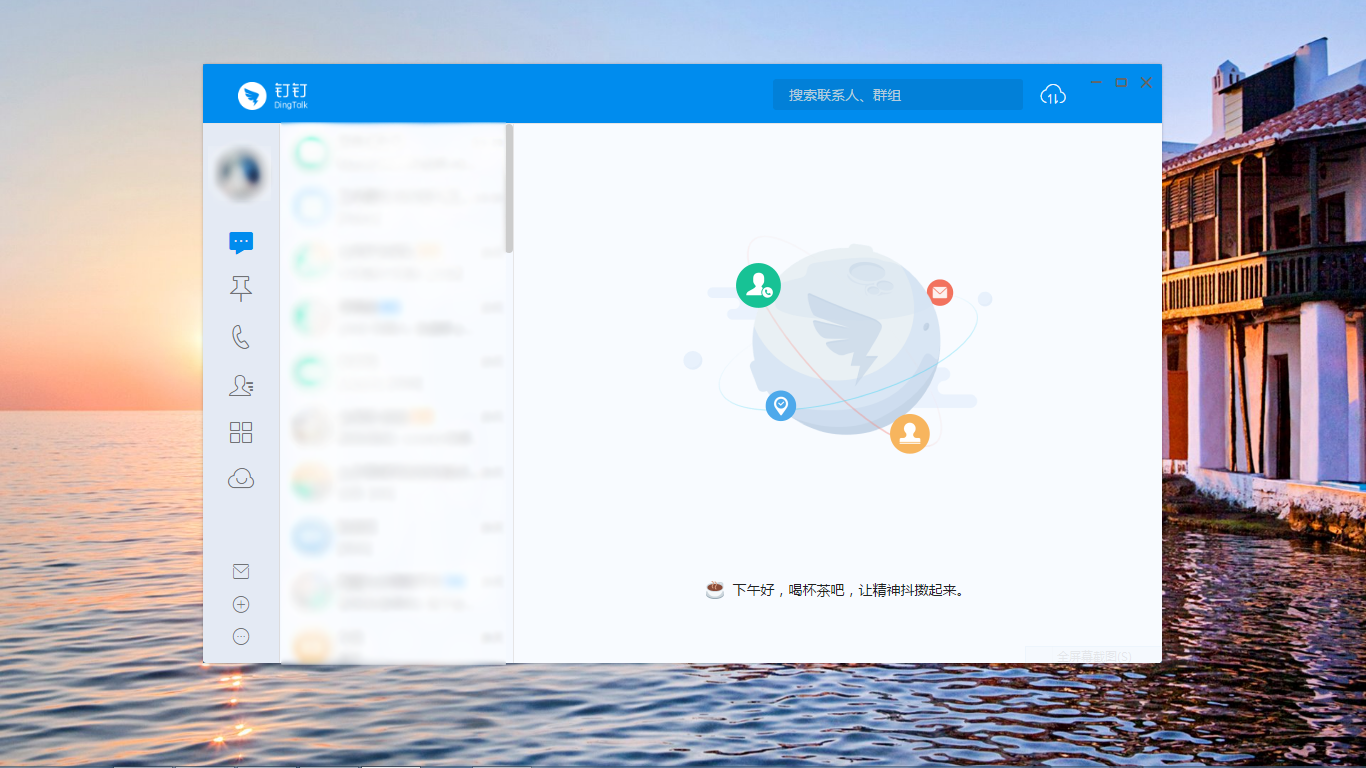
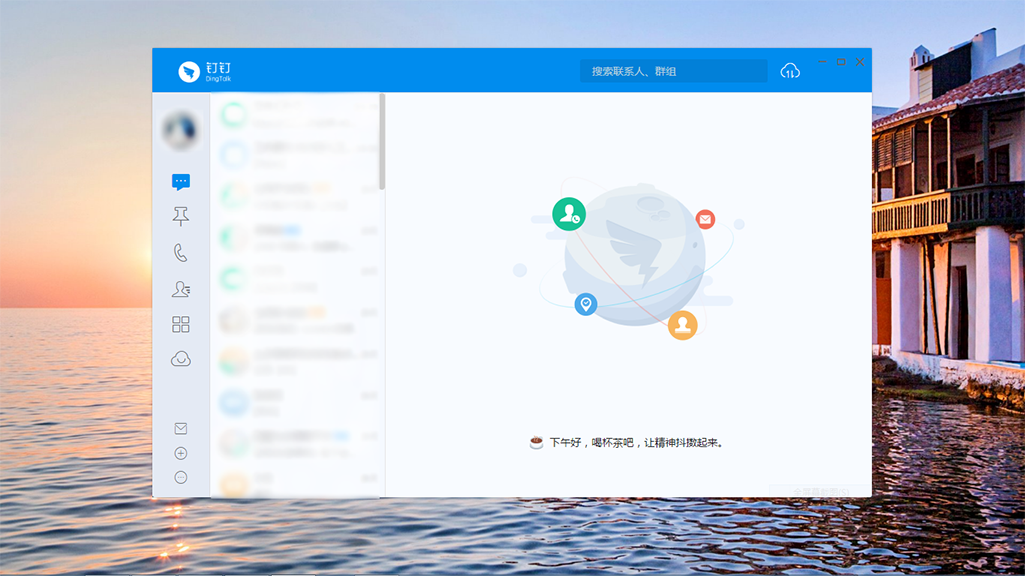
支持邮箱功能

diff --git a/app/dingtalk.js b/app/dingtalk.js
@@ -48,11 +48,15 @@ exports = module.exports = class DingTalk {
     this.onSetBadgeCount()
     // 点击消息通知后打开窗口
     this.onShow()
+    // 点击邮箱之后打开新窗口
+    this.onOpneEmail()
   }
 
   // 应用准备完毕时执行
   onReady () {
     this.app.on('ready', () => {
+      // 移除菜单项
+      Menu.setApplicationMenu(null)
       // 同时只能运行一个人实例
       const shouldQuit = this.app.makeSingleInstance(() => {
         if (this.$window) {
@@ -154,6 +158,40 @@ exports = module.exports = class DingTalk {
         this.$window.show()
         this.$window.focus()
       }
+    })
+  }
+
+  // 渲染进程通知打开邮件新窗体
+  onOpneEmail () {
+    let $emailWindow = null
+    // 渲染进程消息通知点击后打开窗体
+    this.ipcMain.on('open-email', (e, url) => {
+      if ($emailWindow) {
+        $emailWindow.show()
+        $emailWindow.focus()
+        return
+      }
+      $emailWindow = new BrowserWindow({
+        title: '钉邮',
+        width: 980,
+        height: 640,
+        minWidth: 720,
+        minHeight: 450,
+        resizable: true,
+        menu: false,
+        icon: path.join(__dirname, '../icon/32x32.png')
+      })
+      // 加载URL地址
+      $emailWindow.loadURL(url)
+      // 右键上下文菜单
+      $emailWindow.webContents.on('context-menu', (e, params) => {
+        e.preventDefault()
+        this.buildContextMenu(params, $emailWindow)
+      })
+      // 窗口关闭后手动让$window为null
+      $emailWindow.on('closed', () => {
+        $emailWindow = null
+      })
     })
   }
 
@@ -276,6 +314,13 @@ exports = module.exports = class DingTalk {
     if (!this.$window || !this.$window.webContents) {
       return
     }
+    this.$window.webContents.on('context-menu', (e, params) => {
+      e.preventDefault()
+      this.buildContextMenu(params, this.$window)
+    })
+  }
+
+  buildContextMenu (params, $win) {
     // 菜单执行命令
     const menuCmd = {
       copy: {
@@ -296,59 +341,56 @@ exports = module.exports = class DingTalk {
       }
     }
 
-    this.$window.webContents.on('context-menu', (e, params) => {
-      e.preventDefault()
-      const { selectionText, isEditable, editFlags } = params
+    const { selectionText, isEditable, editFlags } = params
 
-      // 生成菜单模板
-      const template = Object.keys(menuCmd)
-        .map(cmd => {
-          const { id, label } = menuCmd[cmd]
-          let enabled = false
-          let visible = false
-          const { canCopy, canCut, canPaste, canSelectAll } = editFlags
-          switch (cmd) {
-            case 'copy':
-              // 有文字选中就显示
-              visible = !!selectionText
-              enabled = canCopy
-              break
-            case 'cut':
-              // 可以编辑就显示项目
-              visible = !!isEditable
-              // 有文字选中才可用
-              enabled = visible && !!selectionText && canCut
-              break
-            case 'paste':
-              // 可以编辑就显示项目
-              visible = !!isEditable
-              enabled = visible && canPaste
-              break
-            case 'selectall':
-              // 可以编辑就显示项目
-              visible = !!isEditable
-              enabled = visible && canSelectAll
-              break
-            default:
-              break
-          }
-          return {
-            id,
-            label,
-            role: cmd,
-            enabled,
-            visible
-          }
-        })
-        .filter(item => item.visible)
-        .sort((a, b) => a.id > b.id)
+    // 生成菜单模板
+    const template = Object.keys(menuCmd)
+      .map(cmd => {
+        const { id, label } = menuCmd[cmd]
+        let enabled = false
+        let visible = false
+        const { canCopy, canCut, canPaste, canSelectAll } = editFlags
+        switch (cmd) {
+          case 'copy':
+            // 有文字选中就显示
+            visible = !!selectionText
+            enabled = canCopy
+            break
+          case 'cut':
+            // 可以编辑就显示项目
+            visible = !!isEditable
+            // 有文字选中才可用
+            enabled = visible && !!selectionText && canCut
+            break
+          case 'paste':
+            // 可以编辑就显示项目
+            visible = !!isEditable
+            enabled = visible && canPaste
+            break
+          case 'selectall':
+            // 可以编辑就显示项目
+            visible = !!isEditable
+            enabled = visible && canSelectAll
+            break
+          default:
+            break
+        }
+        return {
+          id,
+          label,
+          role: cmd,
+          enabled,
+          visible
+        }
+      })
+      .filter(item => item.visible)
+      .sort((a, b) => a.id > b.id)
 
-      // 用模板生成菜单
-      if (template.length) {
-        const menu = Menu.buildFromTemplate(template)
-        menu.popup(this.$window)
-      }
-    })
+    // 用模板生成菜单
+    if (template.length) {
+      const menu = Menu.buildFromTemplate(template)
+      menu.popup($win)
+    }
   }
 
   // 应用更新检查

diff --git a/app/window/js/js.js b/app/window/js/js.js
@@ -43,6 +43,11 @@ class Injector {
      * 发送未读消息条数到主进程
      */
     this.setBadgeCount()
+
+    /**
+     * 打开邮箱界面
+     */
+    this.openEmail()
   }
 
   // 插入窗口操作按钮
@@ -110,6 +115,28 @@ class Injector {
         ipcRenderer.send('set-badge', count)
       }
     }, 2000)
+  }
+
+  openEmail () {
+    document.addEventListener('click', e => {
+      const $email = document.querySelector('#menu-pannel > ul.extra-options.ng-scope > div > org-email > li')
+      if (!$email) {
+        return
+      }
+      if ($email.contains(e.target)) {
+        // 停止事件冒泡和默认事件
+        e.stopPropagation()
+        e.preventDefault()
+        const reg = /^\d+_mailUrl/
+        const storage = localStorage
+        for (let key in storage) {
+          if (reg.test(key)) {
+            ipcRenderer.send('open-email', storage[key])
+            break
+          }
+        }
+      }
+    })
   }
 }
 

diff --git a/README.md b/README.md
@@ -14,6 +14,7 @@
 1. 二维码登录页面![1.png](./screenshot/1.png)
 2. 账号密码登录页面![2.png](./screenshot/2.png)
 3. 登录后页面展示![3.png](./screenshot/3.png)
+4. 邮箱打开效果![4.png](./screenshot/4.png)
 
 ## 功能说明
 1. 本版本是基于网页版钉钉和electron制作的
@@ -22,9 +23,51 @@
     * 除了少数的功能未能够完全实现，其余的使用体验和PC版钉钉基本一致
 
 ## 更新说明
-1. 图标系列制作与通知栏图标修改
-2. 弹出消息提示在Linux上优化
-3. 通知栏图标支持单击弹出窗口
+1. 支持邮箱打开
 
 ## TODO
 1. 支持网络断开时显示错误页
+
+
+## 左边导航HTML
+```html
+<ul class="main-menus">
+                <li class="menu-item menu-message selected" ng-click="home.goState('authorized.im')" ng-class="{selected:home.$state.includes('authorized.im')}" ng-dblclick="home.scrollToUnReadConv()">
+                    <div class="menu-item-content">
+                        <i class="iconfont menu-icon tipper-attached" htitle="消息" htitle-direction="right"></i>
+                        <!-- ngIf: home.$my.uid --><all-conv-unread-count ng-if="home.$my.uid" class="ng-scope ng-isolate-scope"><!-- ngIf: $ctrl.unreadMsgCount > 0 --></all-conv-unread-count><!-- end ngIf: home.$my.uid -->
+                    </div>
+                </li>
+                <li class="menu-item menu-ding" ng-click="home.goState('authorized.ding')" ng-class="{selected:home.$state.includes('authorized.ding')}">
+                    <div class="menu-item-content">
+                        <i class="iconfont menu-icon tipper-attached" htitle="DING" htitle-direction="right"></i>
+
+                        <!-- ngIf: home.newDingList.newCount + home.newCommentList.unreadCount !== 0 -->
+                    </div>
+                </li>
+                <li class="menu-item menu-company-call-center" ng-click="home.onTelClick()" ng-class="{selected:home.$state.includes('authorized.companyCallCenter')}">
+                    <div class="menu-item-content">
+                    <i class="iconfont menu-icon tipper-attached" htitle="电话" htitle-direction="right"></i>
+                        <!-- ngIf: home.$my.uid --><unread-call ng-if="home.$my.uid" class="ng-scope ng-isolate-scope"><!-- ngIf: $ctrl.unreadPointNum > 0 --><span class="unread-num ng-scope" ng-if="$ctrl.unreadPointNum > 0"><em class="ng-binding">1</em></span><!-- end ngIf: $ctrl.unreadPointNum > 0 -->
+</unread-call><!-- end ngIf: home.$my.uid -->
+                    </div>
+                </li>
+                <li class="menu-item menu-contact" ng-click="home.onContactClick()" ng-class="{selected:home.$state.includes('authorized.contact')}">
+                    <div class="menu-item-content">
+                        <i class="iconfont menu-icon tipper-attached" htitle="联系人" htitle-direction="right"></i>
+                    </div>
+                </li>
+                <!-- ngIf: home.isShowMicroApp && !home.ua.isDesktop || home.isShowMicroApp && home.ua.isDesktop && !home.isShowWorkIndependent --><li class="menu-item menu-micro-app ng-scope" ng-if="home.isShowMicroApp &amp;&amp; !home.ua.isDesktop || home.isShowMicroApp &amp;&amp; home.ua.isDesktop &amp;&amp; !home.isShowWorkIndependent" ng-click="home.onMicroAppClick()" ng-class="{selected:home.$state.includes('authorized.microApp')}">
+                    <div class="menu-item-content">
+                        <i class="iconfont menu-icon tipper-attached" htitle="工作" htitle-direction="right"></i>
+                    </div>
+                </li><!-- end ngIf: home.isShowMicroApp && !home.ua.isDesktop || home.isShowMicroApp && home.ua.isDesktop && !home.isShowWorkIndependent -->
+                <!-- ngIf: home.ua.isDesktop && home.isShowMicroApp && home.isShowWorkIndependent -->
+                <li class="menu-item menu-cspace" ng-click="home.goState('authorized.cspace')" ng-class="{selected:home.$state.includes('authorized.cspace')}" log="tab_space_click">
+                    <div class="menu-item-content">
+                        <i class="iconfont menu-icon tipper-attached" htitle="钉盘" htitle-direction="right"></i>
+                        <!-- ngIf: home.$my.uid --><unread-cspace ng-if="home.$my.uid" class="ng-scope ng-isolate-scope"><!-- ngIf: $ctrl.unreadPointNum > 0 --><i ng-if="$ctrl.unreadPointNum > 0" class="iconfont unread-dot cspace-unread-dot ng-scope"></i><!-- end ngIf: $ctrl.unreadPointNum > 0 --></unread-cspace><!-- end ngIf: home.$my.uid -->
+                    </div>
+                </li>
+            </ul>
+```
